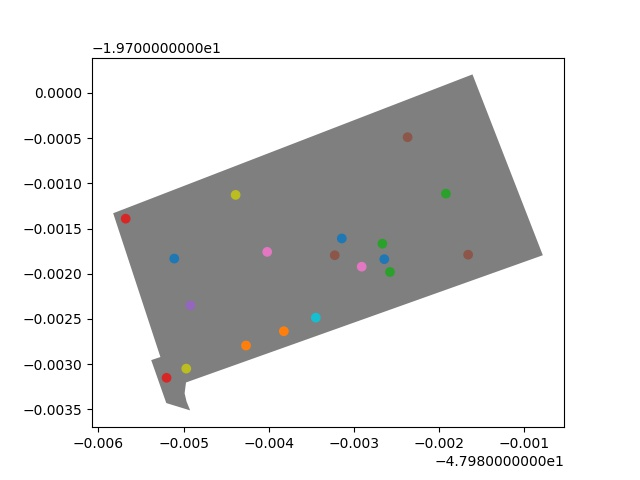
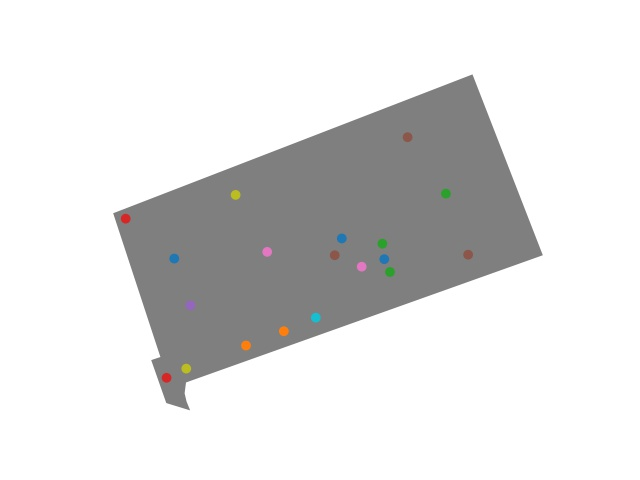
ajustes no plot e juncao de imagens

diff --git a/geopandas_teste.py b/geopandas_teste.py
@@ -1,10 +1,35 @@
 import geopandas as gpd
-import fiona
-
+import matplotlib.pyplot as plt
+from PIL import Image
 gpd.io.file.fiona.drvsupport.supported_drivers['KML'] = 'rw'
-df = gpd.read_file("./files/417-86-11687-19052021.kml", driver='KML')
+
+ 
+#Leitura do arquivo kml
+fp = "./files/417-86-11687-19052021.kml"
+polys = gpd.read_file(fp, driver='KML')
+
+#Plota o mapa
+polys.plot("Name", facecolor="white", edgecolor="black")
+plt.axis('off')
+plt.savefig('./files/mapa.jpg')
+
+#Plota a legenda
+polys.plot("Name",legend=True)
+plt.axis('off') 
 
 
-type(df)
+plt.savefig('./files/legenda.jpg')
 
-print(df)
+
+#Junta a imagem com a legenda
+image1 = Image.open('./files/mapa.jpg')
+image2 = Image.open('./files/legenda.jpg')
+#Ajuste de tamanho das imagens
+image1 = image1.resize((400, 200))
+
+image1_size = image1.size
+image2_size = image2.size
+new_image = Image.new('RGB',(2*image2_size[0], image2_size[1]), (250,250,250))
+new_image.paste(image1,(-10,-10))
+new_image.paste(image2,(image2_size[0] -10 ,0))
+new_image.save("./files/output.jpg","JPEG")

diff --git a/kml_to_img.py b/kml_to_img.py
@@ -2,7 +2,7 @@ import geopandas as gpd
 import matplotlib.pyplot as plt
 gpd.io.file.fiona.drvsupport.supported_drivers['KML'] = 'rw'
 
-
+ 
 # Filepath to KML file
 fp = "./files/417-86-11687-19052021.kml"
 
